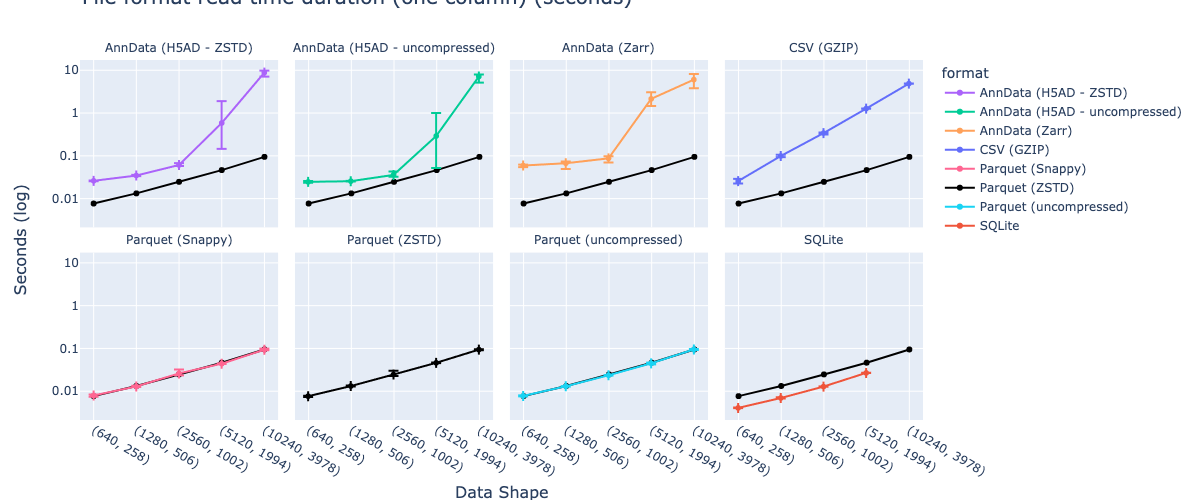
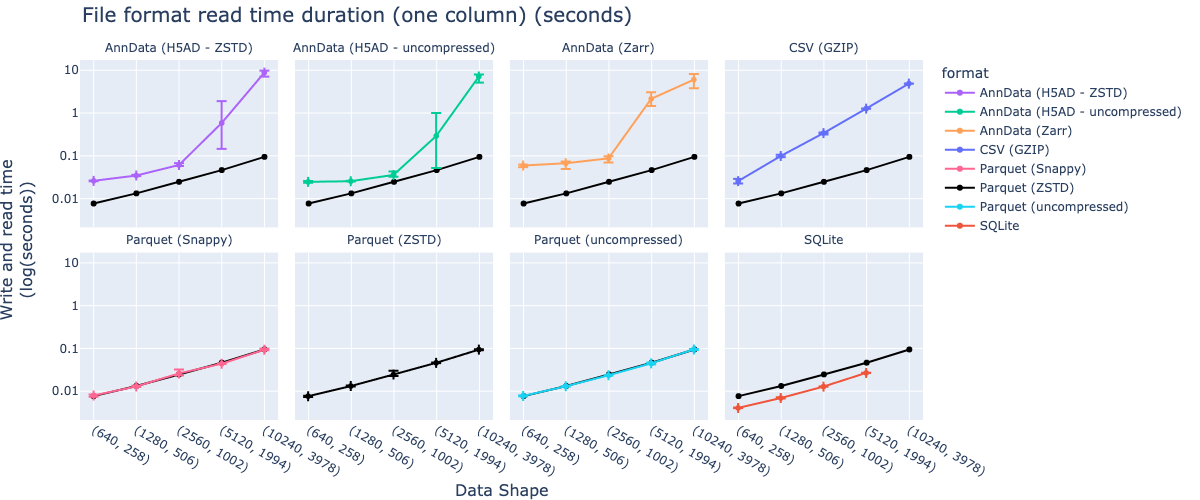
updates for consistent formatting and titles

Changed region(s): [[0.0617, 0.0, 0.5242, 0.06], [0.0, 0.33, 0.0308, 0.63], [0.37, 0.96, 0.4625, 1.0]]

diff --git a/notebooks/parquet_analysis.py b/notebooks/parquet_analysis.py
@@ -307,7 +307,7 @@ def generate_format_comparison_plot(
         xref="paper",
         yref="paper",
         x=0.0,
-        y=1.05,
+        y=1,
         xanchor="left",
         yanchor="bottom",
         showarrow=False,
@@ -320,7 +320,7 @@ def generate_format_comparison_plot(
         xref="paper",
         yref="paper",
         x=0.5,
-        y=0.0,
+        y=0.005,
         xanchor="center",
         yanchor="top",
         showarrow=False,
@@ -328,10 +328,10 @@ def generate_format_comparison_plot(
         yshift=-60,
     )
     fig.add_annotation(
-        text="Seconds (log)",
+        text="Write and read time<br>(log(seconds))",
         xref="paper",
         yref="paper",
-        x=0.0,
+        x=0.009,
         y=0.5,
         xanchor="right",
         yanchor="middle",
